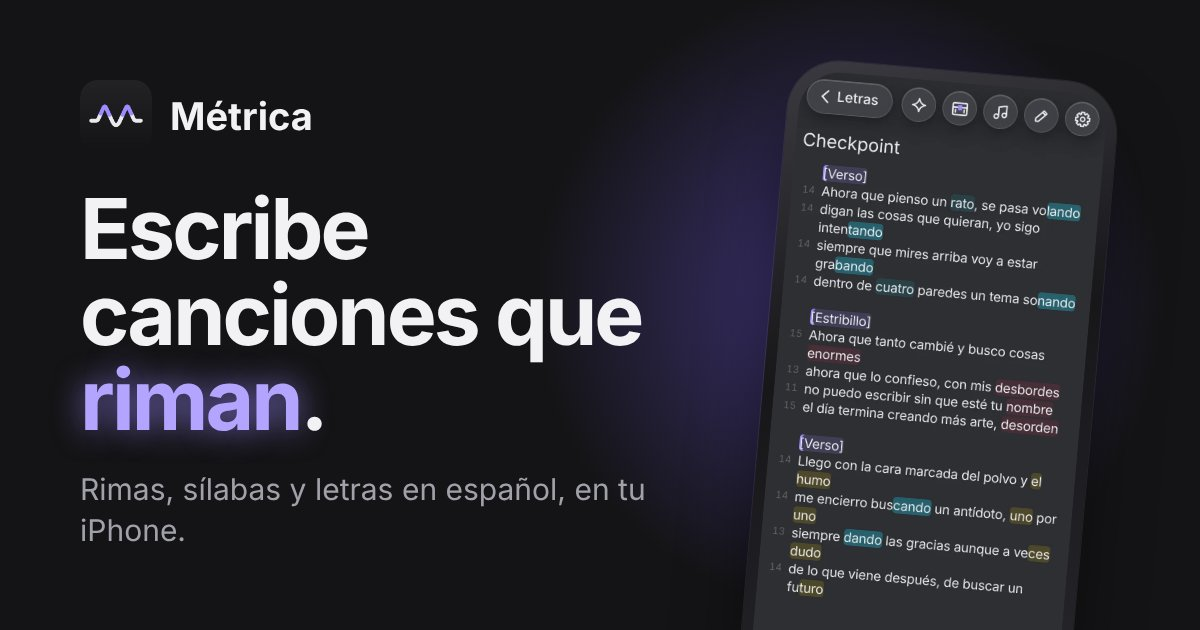
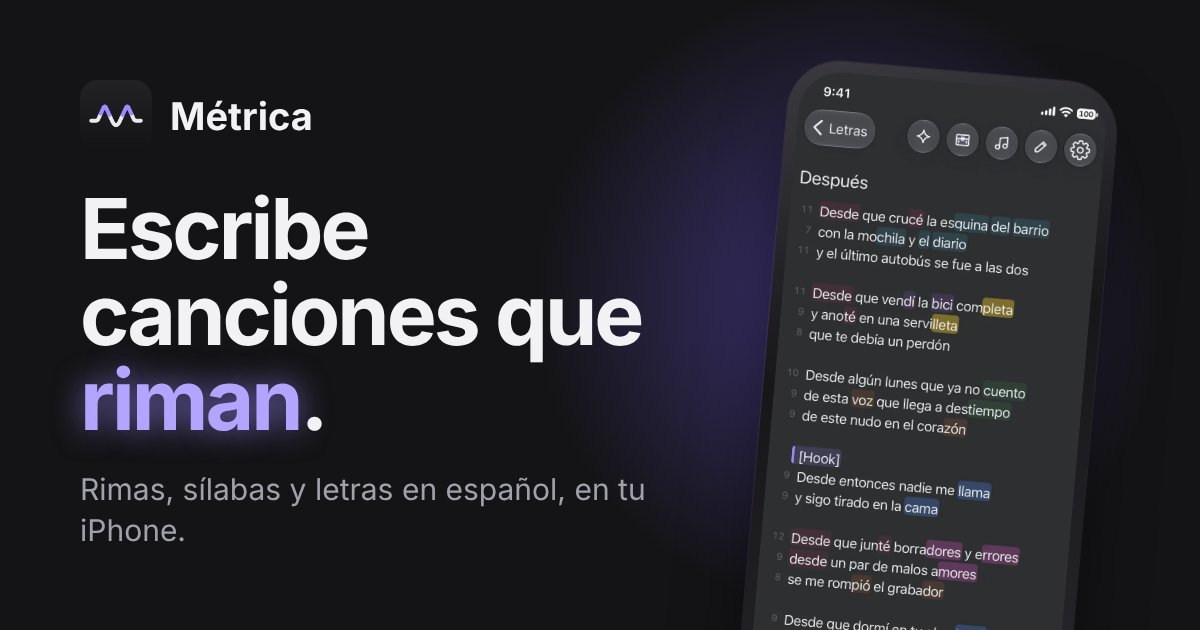
Landing: las capturas del iPhone de la ficha de App Store en lugar de las de la web
Libreta, palabra tocada, Rimas, Freestyle, baúl y tres temas, con la barra de la
hora y la isla. La imagen para compartir usa la misma libreta.

Claude-Session: https://claude.ai/code/session_01Cfo6qesmvRKSHRp2EyVHVs

Changed region(s): [[0.6475, 0.1206, 0.925, 1.0]]

diff --git a/index.html b/index.html
@@ -115,6 +115,7 @@ h1 { font-size: clamp(42px, 6.4vw, 68px); line-height: 1.04; letter-spacing: -0.
 .duo { position: relative; width: 300px; margin: 0 auto; }
 .duo .atras { position: absolute; inset: 0; transform: translate(-46%, 5%) rotate(-8deg) scale(0.86); opacity: 0.55; box-shadow: 0 0 0 1px rgba(255, 255, 255, 0.08), 0 30px 60px -20px rgba(0, 0, 0, 0.7); }
 .duo .telefono:not(.atras) { position: relative; }
+.telefono::after { content: ""; position: absolute; top: 3.1%; left: 50%; width: 27%; height: 3.4%; transform: translateX(-50%); background: #000; border-radius: 999px; }
 .telefono.chico { width: 240px; border-radius: 40px; padding: 8px; }
 .telefono.chico img { border-radius: 32px; }
 
@@ -283,7 +284,7 @@ footer a:hover { color: var(--texto); }
                 </div>
             </div>
             <div class="duo">
-                <div class="telefono atras"><img src="sitio/letras.webp" alt="" width="390" height="844"></div>
+                <div class="telefono atras"><img src="sitio/baul.webp" alt="" width="390" height="844"></div>
                 <div class="telefono"><img src="sitio/libreta.webp" alt="Una letra en Métrica, con las sílabas de cada verso y las rimas pintadas de colores" width="390" height="844" fetchpriority="high"></div>
             </div>
         </div>
@@ -316,7 +317,7 @@ footer a:hover { color: var(--texto); }
                     <li>Guarda las que te gusten para tenerlas a mano.</li>
                 </ul>
             </div>
-            <div class="telefono chico"><img src="sitio/rimas.webp" alt="La pantalla de Rimas con las rimas de «canción»" width="390" height="844" loading="lazy"></div>
+            <div class="telefono chico"><img src="sitio/rimas.webp" alt="La pantalla de Rimas con las rimas de «corazón»" width="390" height="844" loading="lazy"></div>
         </div>
     </section>
 
@@ -371,9 +372,9 @@ footer a:hover { color: var(--texto); }
                 <p>Cada letra tiene su propio tema: oscuros, claros y del espacio, con una ilustración sutil que queda quieta mientras escribes. Elige también la fuente, el tamaño y la separación de los renglones.</p>
             </div>
             <div class="abanico">
-                <div class="telefono"><img src="sitio/tema-papel.webp" alt="Una letra con el tema Papel" width="390" height="844" loading="lazy"></div>
-                <div class="telefono"><img src="sitio/tema-galaxia.webp" alt="Una letra con el tema Galaxia" width="390" height="844" loading="lazy"></div>
-                <div class="telefono"><img src="sitio/tema-sierra.webp" alt="Una letra con el tema Sierra" width="390" height="844" loading="lazy"></div>
+                <div class="telefono"><img src="sitio/tema-1.webp" alt="Una letra con un tema oscuro" width="390" height="844" loading="lazy"></div>
+                <div class="telefono"><img src="sitio/tema-2.webp" alt="Una letra con un tema del espacio" width="390" height="844" loading="lazy"></div>
+                <div class="telefono"><img src="sitio/tema-3.webp" alt="Una letra con un tema claro" width="390" height="844" loading="lazy"></div>
             </div>
         </div>
     </section>

diff --git a/CLAUDE.md b/CLAUDE.md
@@ -6,7 +6,7 @@ App: "Métrica" (en la tienda "Métrica: rimas y letras"), para escribir cancion
 Convertir la web en "Métrica: rimas y letras", una app de iPhone para escribir canciones en español: primero como web app para probar todo, y cuando esté lista, pasarla 1 a 1 a SwiftUI para publicarla en App Store.
 
 ## Hoy
-Publicada en https://metricarimas.com (GitHub Pages desde `main` con el dominio de `CNAME`, sin Jekyll por `.nojekyll`). La raíz (`index.html`) es la landing de la app de iPhone: una sola página con sus estilos adentro, capturas en `sitio/` (sacadas de la web app a 390×844, en webp) y links a `privacidad.html`, `soporte.html` y los términos de Apple; textos en español neutro, con tuteo. Arriba, en pantallas anchas, el botón «Métrica Web» lleva a `app/#vincular`, que abre la web en la pantalla del QR aunque antes se haya elegido «Usar sin vincular» (pedido de Swa); el botón de App Store dice «muy pronto» hasta que haya link. Con ella van `404.html`, `robots.txt`, `sitemap.xml` y la imagen para compartir `sitio/compartir.jpg` (1200×630). La web app está en https://metricarimas.com/app/ (`app/index.html`, con `<base href="../">` para usar los archivos de la raíz; `app.html` quedó como redirección): la interfaz está en `app/index.html`, `estilos.css` y `js/app.js`; la lógica, en módulos puros en `js/logica/` con tests en `tests/`.
+Publicada en https://metricarimas.com (GitHub Pages desde `main` con el dominio de `CNAME`, sin Jekyll por `.nojekyll`). La raíz (`index.html`) es la landing de la app de iPhone: una sola página con sus estilos adentro, capturas en `sitio/` (las del iPhone que se usaron para la ficha de App Store, achicadas a 780×1688 en webp; solo con letras de Swa) y links a `privacidad.html`, `soporte.html` y los términos de Apple; textos en español neutro, con tuteo. Arriba, en pantallas anchas, el botón «Métrica Web» lleva a `app/#vincular`, que abre la web en la pantalla del QR aunque antes se haya elegido «Usar sin vincular» (pedido de Swa); el botón de App Store dice «muy pronto» hasta que haya link. Con ella van `404.html`, `robots.txt`, `sitemap.xml` y la imagen para compartir `sitio/compartir.jpg` (1200×630). La web app está en https://metricarimas.com/app/ (`app/index.html`, con `<base href="../">` para usar los archivos de la raíz; `app.html` quedó como redirección): la interfaz está en `app/index.html`, `estilos.css` y `js/app.js`; la lógica, en módulos puros en `js/logica/` con tests en `tests/`.
 
 - **Computadora** (pedido de Swa, 2026-11-12; la web pasa a ser una web de verdad, pensada para compu, al día con Swift): desde 700 px la barra de pestañas es una barra lateral fija, sólida y sin bordes ni líneas (pedido de Swa, 2.0.15; 2.0.14: la Papelera va abajo de las carpetas de Letras, del mismo tamaño, y arriba de Ajustes van los créditos IA con el aro y el plan del iPhone, `pintarCreditosLateral`, que abren Ajustes; el estado de la vinculación va sin tarjeta) (marca, estado de la vinculación siempre a la vista: «Conectada con tu iPhone · Sincronizado hace 3 s» con punto verde, gris si se cortó, `estadoDeSincronizacion` en `js/web.js`; Letras, Rimas, Freestyle, Baúl de frases y Ajustes abajo) y cada sección va centrada en lo que queda; las tarjetas de Letras usan las columnas que entren (`lugaresEnGrilla(ids, columnas)`). La libreta va al medio con la letra a 700 px como mucho (desde 1000 px la letra va un paso más grande, ×1,125: 16 → 18, `escalaLibreta`; Rimas a 960 px con «Todas» en tres columnas y los textos chicos a 13 px; pedido de Swa para que a 1080 no se lea chico), los renglones de borde a borde y las sílabas a la derecha de cada verso. Mientras se escribe, a la derecha el panel de ayudas (`#panel-ayudas`; desde 1000 px es una columna, en las medianas una hoja que entra desde el costado; se abre y se cierra con su botón o Ctrl/Cmd + /, y en las grandes se recuerda en `metrica.panel-ayudas`): Rimas (consonante/asonante) y Sinónimos (más relacionadas) de la palabra tocada o seleccionada, o de la que se busca arriba (tocar una la cambia en la letra), Baúl (anotar, y las frases se arrastran a la letra o se tocan para ponerlas en su renglón) e IA («¿Cómo lo diría Métrica IA?» con una frase seleccionada y «¿Qué cambiaría Métrica IA?»). Con el panel abierto, las rimas de la palabra tocada no van en la barra de abajo. Atajos: Ctrl/Cmd + N (o Alt + N, porque el navegador se guarda Ctrl + N) letra nueva, Ctrl/Cmd + / el panel, Alt + clic en una palabra abre sus rimas, Ctrl/Cmd + Enter manda el verso al baúl y la barra espaciadora arranca y pausa Freestyle. Salen de la web (escondidos con `.fuera-de-la-web` y en CSS): Widgets, Grabar y Grabaciones (y su ajuste), Google Keep, «Versión anterior» y «Volver a la versión gratis». En el celular queda todo como siempre. Etapa 2 (como Swift 2.0.35): Letras con la barra de Keep (las tres líneas abren el menú de Letras: carpetas, tamaño Aleatorio/Fijo, ordenar por fecha de creación, título o modificación con la flecha que se da vuelta, selección múltiple para mover a una carpeta o borrar, créditos IA y la Papelera, que salió de Ajustes; la pastilla «Buscar» busca en título y texto, también con Ctrl/Cmd + K; al buscar, los botones de al lado se quedan y solo se van si al buscador le queda poco lugar, como en el celular: `@container fila-letras`, pedido de Swa), el orden de Swift (de la última creada a la primera, `lugar` al acomodar a mano; editar no la mueve), carpetas (`js/logica/carpetas.js`, gratis 2; las protegidas con Face ID en el iPhone no se ven) también abajo de Letras en la barra lateral, como Notas de Mac. La barra lateral se pliega a la izquierda con sus tres líneas, como Keep (solo íconos, `metrica.barra-plegada`). Las tarjetas tienen ancho fijo (220) y entran más o menos columnas, sin deformarse, usando todo el ancho; el buscador mide lo mismo que la grilla y arranca con ella (`--ancho-grilla`). La web no vende: Métrica+ y los créditos IA se ven en Ajustes y en el menú, y donde haría falta comprar sale «Mejóralo desde tu iPhone». Sin publicidad. En la compu no hay menú de Letras aparte (era una segunda barra, pedido de Swa): las carpetas y la Papelera van en la barra lateral y «Ver y ordenar» (a la derecha del buscador) abre el tamaño, el orden y la selección. Con la ventana a la mitad de la pantalla o menos (`screen.availWidth`, `barra-escondida`) la barra lateral se esconde y las tres líneas al lado del buscador (o arriba a la izquierda en Rimas, Freestyle y Ajustes) la abren encima, entera y con las mismas opciones; más ancha, las tres líneas no van. Vinculada, el plan y los créditos IA son los del iPhone: `plan-iphone` trae `ia`, `cupo` y `cuenta` (los headers que el iPhone manda al Worker, así la web gasta sus créditos; `cabecerasIA`), y lo que contesta el Worker en `X-Metrica-Restantes` se guarda en `metrica.web-restantes`. Lo que se muestra lo dice el servidor: la web pide `/ia/cupo` cada 8 s vinculada (y el iPhone, en cada vuelta de Métrica web), así los dos dicen lo mismo aunque se usen a la vez; al vincular se borra lo viejo. A la derecha del porcentaje, «Comprar más créditos» avisa que se compra desde el iPhone (pedidos de Swa). Las ventanas de la IA («¿Por dónde empiezo?», «¿Cómo lo diría?», «¿Qué cambiaría?») en la compu son ventanas centradas con su cruz, sin el agarre de las hojas, y abajo de cada consulta va la pastilla de Swift (`pastillaCupo`: el aro, el porcentaje que queda y abajo los créditos que quedan, «259 créditos IA disponibles», que bajan en vivo; antes decía «de N créditos IA» y se confundía con lo disponible, pedido de Swa; igual en Ajustes y lo que gasta «−0,33% esta consulta»; también en el panel de ayudas). Sin tope por letra, y «¿Qué cambiaría?» gasta según los versos (`GASTO_IA`, como Swift). La IA en la web es solo con un iPhone vinculado (pedido de Swa): sin vincular, los botones de la IA dicen «Vincula tu iPhone para usar Métrica IA» (`cupoIA` con `sinVincular`), y el Worker no atiende `/ia` desde un navegador sin una sesión de Métrica web que valga; gasta los créditos del iPhone con el id que este dejó al vincular o al sincronizar (ver `worker/README.md`). Las ilustraciones de los temas (libreta y baúl) no crecen con la ventana: van abajo a la derecha, donde sobra lugar, a un alto fijo y desvanecidas hacia la izquierda (`::before`); los 18 paisajes (Aurora, Tormenta, Marea...) tienen versión ancha para la compu (`fondos/anchos/`, de `node fondos-anchos.cjs`: la escena sigue espejada a la izquierda sin repetir la luna, el rayo o la sombrilla). Los garabatos (Garabatos, Trazos, Apuntes, Borrador) van inclinados y cada dibujo con su giro y tamaño, para que no se note el patrón: salen de `fondos/mosaicos/` con `node fondos-garabatos.cjs` (el del celular y uno de 2000×1200 para la compu; el iPhone usa el mismo en PNG a 3x). Pedidos de Swa. Las tiras que se deslizan de costado (temas, categorías, sugerencias, duraciones) se arrastran con el mouse o se mueven con la rueda (`deslizableConMouse`). Prueba: `node verificar-compu.cjs`. Etapa que sigue: acordes.
 - **Gestos** (pedido de Swa): como en iOS, deslizar desde el borde izquierdo hacia la derecha vuelve atrás desde una letra, el baúl, Widgets o Keep. En las pantallas principales, deslizar desde un borde cambia de sección en el orden de la barra (desde el derecho, la siguiente; desde el izquierdo, la anterior): solo desde los bordes (30 px) para no mezclarse con deslizar la caja de Rimas o la de ¿Por dónde empiezo?, y nunca sobre lo que tiene su propio gesto (cajas, beats, reproductor, campos, listas que se deslizan de costado), con una hoja abierta o con el teclado.
